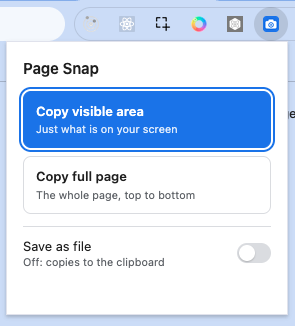
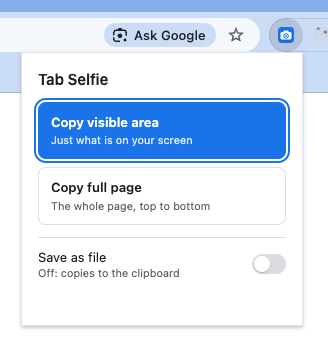
Add MIT license, README badges and updated screenshot

Changed region(s): [[0.0, 0.0, 1.0, 1.0], [0.061, 0.7055, 0.5797, 0.8282]]

diff --git a/README.md b/README.md
@@ -1,10 +1,13 @@
 # Tab Selfie
 
 [![Tests](https://github.com/huckbit/tab-selfie/actions/workflows/test.yml/badge.svg?branch=main)](https://github.com/huckbit/tab-selfie/actions/workflows/test.yml)
+[![Version](https://img.shields.io/github/manifest-json/v/huckbit/tab-selfie)](manifest.json)
+[![Manifest V3](https://img.shields.io/badge/manifest-v3-4285F4?logo=googlechrome&logoColor=white)](https://developer.chrome.com/docs/extensions/develop/migrate/what-is-mv3)
+[![License: MIT](https://img.shields.io/github/license/huckbit/tab-selfie)](LICENSE)
 
 A Chrome extension that takes a screenshot of the current tab, either the visible area or the full page, and copies it to your clipboard or saves it as a PNG.
 
-![Tab Selfie popup](docs/popup.png)
+<img src="docs/popup.png" alt="Tab Selfie popup" width="328">
 
 ## Install
 
@@ -61,3 +64,7 @@ Nothing is sent anywhere: screenshots stay on your computer.
 ## Development
 
 See [docs/DEVELOPMENT.md](docs/DEVELOPMENT.md) for running the tests and how CI works.
+
+## License
+
+[MIT](LICENSE)
